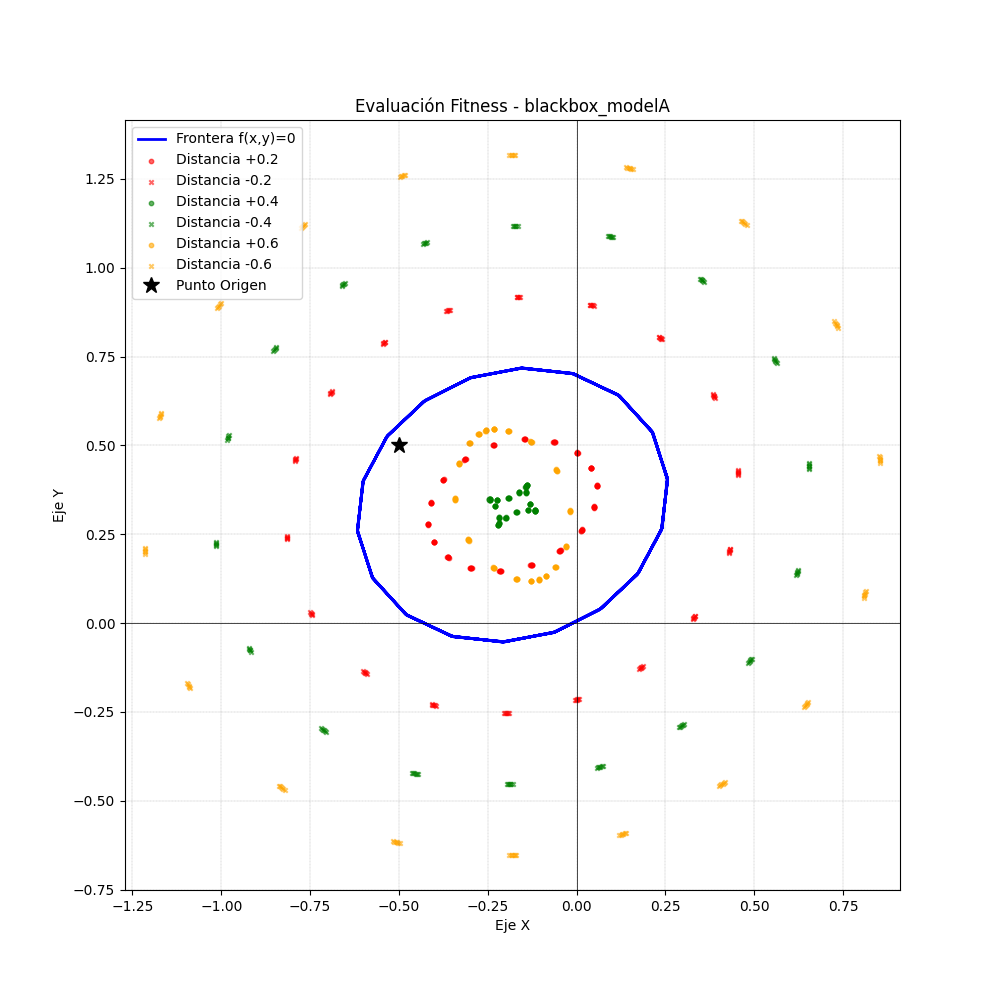
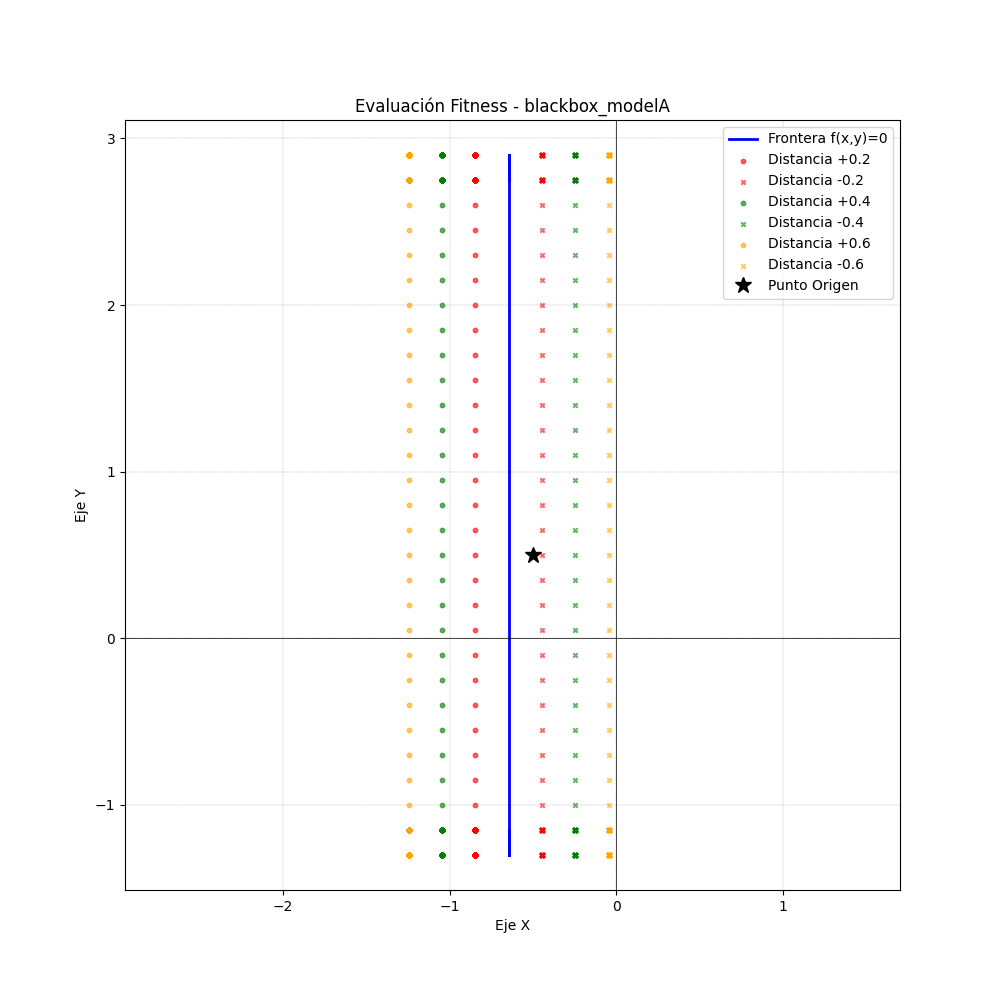
feat: prueba de mutacion eliminar y eso

diff --git a/genetico.py b/genetico.py
@@ -16,6 +16,10 @@ from arbol import (
     generar_puntos_ortogonales,
     generar_vecindad_frontera,
     altura_arbol,
+    contar_nodos,
+    simplificar_arbol,
+    Variable,
+    Constante,
 )
 
 warnings.filterwarnings("ignore")
@@ -93,9 +97,34 @@ def mutar_arbol(arbol, profundidad_max=2):
     return arbol_mutado
 
 
+def mutar_poda(arbol):
+    arbol_mutado = copy.deepcopy(arbol)
+
+    def obtener_internos(nodo):
+        internos = []
+        if hasattr(nodo, "izq") and hasattr(nodo, "der"):
+            internos.append(nodo)
+            internos.extend(obtener_internos(nodo.izq))
+            internos.extend(obtener_internos(nodo.der))
+        return internos
+
+    internos = obtener_internos(arbol_mutado)
+    if internos:
+        nodo_a_podar = random.choice(internos)
+        nuevo_terminal = (
+            Variable(random.choice(["x", "y"]))
+            if random.random() < 0.5
+            else Constante()
+        )
+        arbol_mutado = reemplazar_nodo(arbol_mutado, nodo_a_podar, nuevo_terminal)
+
+    return arbol_mutado
+
+
 # ==========================================
 # EVALUACIÓN (FITNESS) PARA MULTIPROCESAMIENTO
 # ==========================================
+
 
 def score_wrapper(params):
     return score(*params)
@@ -156,10 +185,10 @@ def score(arbol, p, bb):
         return 0.0
 
     accuracy = wellClassified / total_evaluaciones_esperadas
-    height = altura_arbol(arbol)
-    coef_penal = 0.005
+    nodos_totales = contar_nodos(arbol)
+    coef_penal = 0.00001
 
-    fitness_final = accuracy - (coef_penal * height)
+    fitness_final = accuracy - (coef_penal * nodos_totales)
 
     return max(0.0, fitness_final)
 
@@ -337,10 +366,10 @@ def genetico(
         print("Carpeta 'output' creada.")
 
     proceso = psutil.Process(os.getpid())
-    psutil.cpu_percent(interval=None) 
-    
+    psutil.cpu_percent(interval=None)
+
     start_time = time.time()
-    
+
     historial_ram = []
     historial_cpu = []
 
@@ -359,16 +388,18 @@ def genetico(
 
     for gen in range(generaciones):
         poblacion = evaluar_poblacion(poblacion, p, bb)
-        
+
         mejor_fitness = poblacion[0][1]
         fitness_medio = sum(ind[1] for ind in poblacion) / len(poblacion)
-        
+
         # NUEVO: Muestreamos la RAM y CPU en esta generación para luego hacer la media
         historial_ram.append(proceso.memory_info().rss / (1024 * 1024))
         historial_cpu.append(psutil.cpu_percent(interval=None))
 
         # NUEVO: Imprimimos ambos valores para que el log los recoja
-        print(f"Generación {gen + 1}/{generaciones} | Mejor Fitness: {mejor_fitness:.4f} | Media Población: {fitness_medio:.4f}")
+        print(
+            f"Generación {gen + 1}/{generaciones} | Mejor Fitness: {mejor_fitness:.4f} | Media Población: {fitness_medio:.4f}"
+        )
 
         if mejor_fitness > mejor_fitness_historico:
             mejor_fitness_historico = mejor_fitness
@@ -376,12 +407,14 @@ def genetico(
         else:
             generaciones_sin_mejora += 1
 
-        if mejor_fitness >= 0.99:
-            print("¡Solución óptima alcanzada (Fitness >= 0.99)!")
+        if mejor_fitness >= 0.975:
+            print("¡Solución óptima alcanzada (Fitness >= 0.975)!")
             break
-            
+
         if generaciones_sin_mejora >= 1000:
-            print(f"¡Parada temprana! Se han alcanzado 1000 generaciones sin mejorar el fitness ({mejor_fitness_historico:.4f}).")
+            print(
+                f"¡Parada temprana! Se han alcanzado 1000 generaciones sin mejorar el fitness ({mejor_fitness_historico:.4f})."
+            )
             break
 
         nueva_poblacion = []
@@ -394,8 +427,7 @@ def genetico(
 
             if random.random() < prob_cruce:
                 hijo1, hijo2 = cruzar_arboles(padre1, padre2)
-                
-                # --- PROTECCIÓN DEL CRUCE ---
+
                 if not es_arbol_valido(hijo1):
                     hijo1 = copy.deepcopy(padre1)
                 if not es_arbol_valido(hijo2):
@@ -404,14 +436,25 @@ def genetico(
                 hijo1, hijo2 = copy.deepcopy(padre1), copy.deepcopy(padre2)
 
             if random.random() < prob_mutacion:
-                hijo_mutado1 = mutar_arbol(hijo1)
+                if random.random() < 0.5:
+                    hijo_mutado1 = mutar_arbol(hijo1)
+                else:
+                    hijo_mutado1 = mutar_poda(hijo1)
+
                 if es_arbol_valido(hijo_mutado1):
                     hijo1 = hijo_mutado1
-                    
+
             if random.random() < prob_mutacion:
-                hijo_mutado2 = mutar_arbol(hijo2)
+                if random.random() < 0.5:
+                    hijo_mutado2 = mutar_arbol(hijo2)
+                else:
+                    hijo_mutado2 = mutar_poda(hijo2)
+
                 if es_arbol_valido(hijo_mutado2):
                     hijo2 = hijo_mutado2
+
+            hijo1 = simplificar_arbol(hijo1)
+            hijo2 = simplificar_arbol(hijo2)
 
             nueva_poblacion.append((hijo1, 0.0))
             if len(nueva_poblacion) < tam_poblacion:
@@ -423,10 +466,10 @@ def genetico(
     poblacion = evaluar_poblacion(poblacion, p, bb)
     mejor_arbol = poblacion[0][0]
     mejor_fitness = poblacion[0][1]
-    
+
     end_time = time.time()
     tiempo_total = end_time - start_time
-    
+
     # NUEVO: Calculamos la media de consumo real a lo largo de toda la ejecución
     ram_media = sum(historial_ram) / len(historial_ram) if historial_ram else 0
     cpu_media = sum(historial_cpu) / len(historial_cpu) if historial_cpu else 0
@@ -435,12 +478,14 @@ def genetico(
     print(f"--- RESULTADOS PARA {path_modelo} ---")
     print(f"Mejor Fitness Final: {mejor_fitness:.4f}")
     # Ahora imprime las medias reales
-    print(f"Tiempo Total: {tiempo_total:.2f} s | Memoria Media: {ram_media:.2f} MB | CPU Media: {cpu_media:.2f}%")
+    print(
+        f"Tiempo Total: {tiempo_total:.2f} s | Memoria Media: {ram_media:.2f} MB | CPU Media: {cpu_media:.2f}%"
+    )
     print(f"Ecuación:\n{mejor_arbol}")
 
     # --- GENERACIÓN Y GUARDADO DE GRÁFICAS ---
     nombre_base = os.path.basename(path_modelo).replace(".pkl", "")
-    
+
     mejor_arbol.graf()
     plt.title(f"Frontera Generada - {nombre_base}")
     plt.savefig(f"output/frontera_{nombre_base}.png")
@@ -451,8 +496,10 @@ def genetico(
     plt.savefig(f"output/fitness_{nombre_base}.png")
     plt.close()
 
-    print(f"Gráficas guardadas en la carpeta 'output/' como frontera_{nombre_base}.png y fitness_{nombre_base}.png")
-    
+    print(
+        f"Gráficas guardadas en la carpeta 'output/' como frontera_{nombre_base}.png y fitness_{nombre_base}.png"
+    )
+
     return mejor_arbol, p
 
 
@@ -460,7 +507,7 @@ if __name__ == "__main__":
     # 1. Definición de los modelos a procesar
     # Asegúrate de que estos archivos estén en la misma carpeta que el script
     modelos_a_evaluar = ["blackbox_modelA.pkl", "blackbox_modelB.pkl"]
-    
+
     print("====================================================")
     print("INICIANDO EVALUACIÓN DE PRÁCTICA 3 - METAHEURÍSTICAS")
     print("====================================================")
@@ -470,17 +517,17 @@ if __name__ == "__main__":
             if not os.path.exists(modelo):
                 print(f"\n[!] Error: No se encuentra el archivo {modelo}. Saltando...")
                 continue
-            
+
             # 2. Llamada única a la función principal
             # Al llamar a genetico(), se ejecutan las métricas, se entrena,
             # y se guardan las gráficas automáticamente en /output.
             arbol_final, punto_inicio = genetico(
-                path_modelo=modelo, 
-                tam_poblacion=20,     # Parámetro según vuestra configuración
-                tam_elite=2,          # Elitismo configurado
-                generaciones=2000       # Número de iteraciones
+                path_modelo=modelo,
+                tam_poblacion=50,  # Parámetro según vuestra configuración
+                tam_elite=2,  # Elitismo configurado
+                generaciones=1000,  # Número de iteraciones
             )
-            
+
             print(f"\n[OK] Finalizado éxito: {modelo}")
             print("-" * 50)
 
@@ -490,3 +537,4 @@ if __name__ == "__main__":
     print("\n====================================================")
     print("PROCESO COMPLETADO. Revisa la carpeta 'output' para las gráficas.")
     print("====================================================")
+

diff --git a/arbol.py b/arbol.py
@@ -2,6 +2,7 @@ import random
 import numpy as np
 from scipy.optimize import minimize, brentq
 import matplotlib.pyplot as plt
+import copy
 
 
 class Nodo:
@@ -159,7 +160,6 @@ def generar_vecindad_frontera(arbol, punto_centro, num_puntos=100, paso=0.05):
 
     if cont > 50:
         paso = 0.1
-    
 
     def avanzar_sobre_curva(punto_inicial, direccion, pasos):
         puntos = []
@@ -289,6 +289,54 @@ def altura_arbol(nodo):
     altura_der = altura_arbol(nodo.der) if hasattr(nodo, "der") else 0
     return 1 + max(altura_izq, altura_der)
 
+
+def contar_nodos(nodo):
+    if isinstance(nodo, (Variable, Constante)):
+        return 1
+    return 1 + contar_nodos(nodo.izq) + contar_nodos(nodo.der)
+
+
+def simplificar_arbol(nodo):
+    if isinstance(nodo, (Variable, Constante)):
+        return copy.deepcopy(nodo)
+
+    izq = simplificar_arbol(nodo.izq)
+    der = simplificar_arbol(nodo.der)
+
+    # Plegado de constantes puro
+    if isinstance(izq, Constante) and isinstance(der, Constante):
+        if isinstance(nodo, Suma):
+            return Constante(izq.valor + der.valor)
+        if isinstance(nodo, Resta):
+            return Constante(izq.valor - der.valor)
+        if isinstance(nodo, Multiplicacion):
+            return Constante(izq.valor * der.valor)
+
+    # Aniquilación por cero
+    if isinstance(nodo, Multiplicacion):
+        if isinstance(izq, Constante) and izq.valor == 0:
+            return Constante(0)
+        if isinstance(der, Constante) and der.valor == 0:
+            return Constante(0)
+
+    # Neutralización de suma y resta
+    if isinstance(nodo, Suma):
+        if isinstance(izq, Constante) and izq.valor == 0:
+            return der
+        if isinstance(der, Constante) and der.valor == 0:
+            return izq
+
+    if isinstance(nodo, Resta):
+        if isinstance(der, Constante) and der.valor == 0:
+            return izq
+        # Si x - 0, el lado izquierdo queda intacto.
+
+    nuevo_nodo = copy.deepcopy(nodo)
+    nuevo_nodo.izq = izq
+    nuevo_nodo.der = der
+    return nuevo_nodo
+
+
 def calcular_grados(nodo):
     """
     Recorre el árbol y calcula el grado máximo de x y de y.
@@ -296,21 +344,22 @@ def calcular_grados(nodo):
     """
     if isinstance(nodo, Variable):
         return (1, 0) if nodo.nombre == "x" else (0, 1)
-    
+
     elif isinstance(nodo, Constante):
         return (0, 0)
-        
+
     elif isinstance(nodo, (Suma, Resta)):
         gx1, gy1 = calcular_grados(nodo.izq)
         gx2, gy2 = calcular_grados(nodo.der)
         return (max(gx1, gx2), max(gy1, gy2))
-        
+
     elif isinstance(nodo, Multiplicacion):
         gx1, gy1 = calcular_grados(nodo.izq)
         gx2, gy2 = calcular_grados(nodo.der)
         return (gx1 + gx2, gy1 + gy2)
-        
+
     return (0, 0)
+
 
 def es_arbol_valido(nodo, grado_maximo=2):
     """
@@ -318,6 +367,7 @@ def es_arbol_valido(nodo, grado_maximo=2):
     """
     gx, gy = calcular_grados(nodo)
     return gx <= grado_maximo and gy <= grado_maximo
+
 
 def generar_arbol_aleatorio_valido(profundidad_maxima):
     """